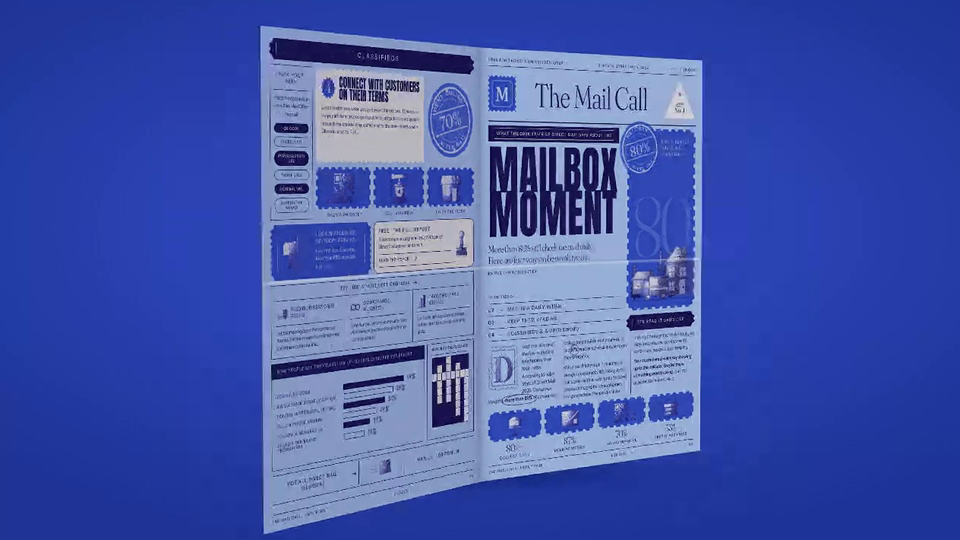
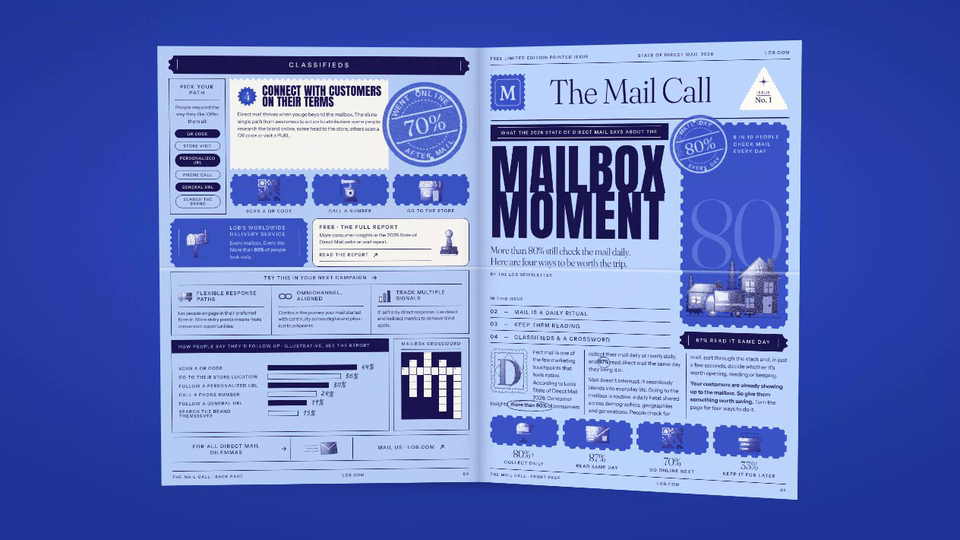
Lob Mail Call: 70% stamp overlaps the Connect card
Claude-Session: https://claude.ai/code/session_016rpguc5B5SYFcQkza5DeAg

diff --git a/lob-mail-call/index.html b/lob-mail-call/index.html
@@ -535,7 +535,7 @@ ${foot(3,'Page three')}`,
     <div style="display:flex;gap:12px;align-items:center"><div style="width:46px;height:46px;flex:none;display:grid">${num(4).replace('class="num"','class="num" style="width:46px;height:46px"')}</div><div class="an c4h" style="font-size:28px;line-height:.92;white-space:nowrap">Connect with customers<br>on their terms</div></div>
     <div class="tx s" style="margin-top:9px"><p>Direct mail thrives when you go beyond the mailbox. There's no single path from awareness to action to attribution: some people research the brand online, some head to the store, others scan a QR code or visit a PURL.</p></div>
   </div>
-  <div style="display:grid;place-items:center">${rubber('WENT ONLINE','70%','AFTER MAIL',-12,'Stamp: 70 percent took an online action after receiving direct mail')}</div>
+  <div style="display:grid;place-items:center;position:relative;z-index:2;margin-left:-30px">${rubber('WENT ONLINE','70%','AFTER MAIL',-12,'Stamp: 70 percent took an online action after receiving direct mail')}</div>
   ${[[qrChar(),'Scan a QR code','scal'],[phoneChar(),'Call a number','scal'],[storeChar(),'Go to the store','scal']].map(t=>tile(t[0],'',t[1],t[2])).join('')}
   <div class="tkt lt" style="grid-column:span 2;display:grid;grid-template-columns:92px minmax(0,1fr);gap:14px;align-items:center;justify-items:start;text-align:left;padding:12px 34px"><div style="height:72px">${ruralMailbox()}</div>
     <div><div class="tc" style="font-size:11px;line-height:1.35;white-space:nowrap">Lob's Worldwide<br>Delivery Service</div><div class="tx s" style="margin-top:5px">Every mailbox. Every day. More than <b>80%</b> of people look daily.</div></div></div>
